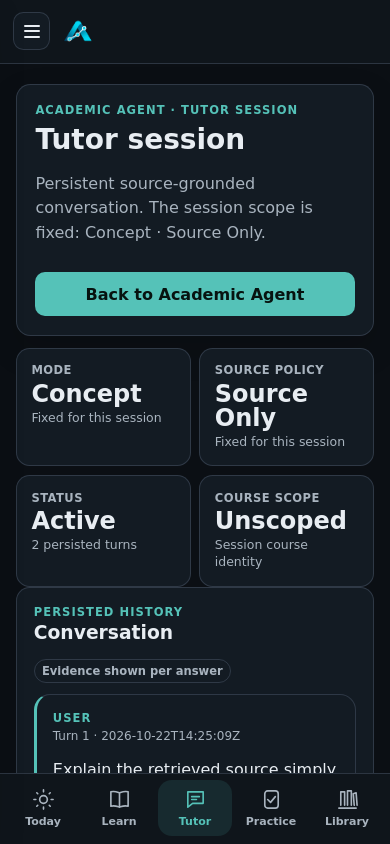
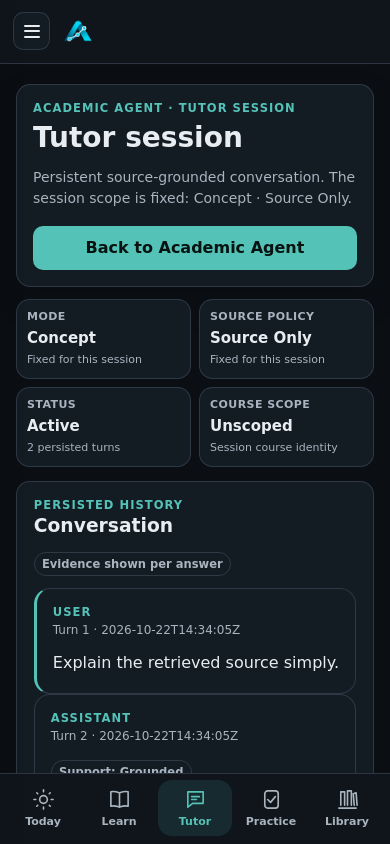
Polish mobile Tutor reading hierarchy and record verified cloud acceptance

diff --git a/personal_learning_assistant/ui/web/static/css/mobile_v1.css b/personal_learning_assistant/ui/web/static/css/mobile_v1.css
@@ -102,3 +102,12 @@ body.mobile-assessment {padding-bottom:env(safe-area-inset-bottom)}
 :root[data-theme="light"] .assessment-runner.is-time-low .exam-timer-panel strong {color:#9e2431}
 :root[data-theme="light"] body.learning-page .content .ls-workspace-primary,
 :root[data-theme="light"] body.learning-page .content .ls-workspace-primary span {background:#12675e;color:#fff}
+@media(max-width:860px) {
+ /* Keep scope legible while bringing the conversation onto the first screen. */
+ .tutor-session-page .hero {padding:16px;margin-bottom:12px;gap:10px}
+ .tutor-session-page .hero .lede {font-size:14px;line-height:1.5}
+ .tutor-session-page .metric-grid {gap:8px;margin-bottom:14px}
+ .tutor-session-page .metric-card {min-height:0;padding:10px;gap:4px}
+ .tutor-session-page .metric-card strong {font-size:15px;line-height:1.35}
+ .tutor-session-page .metric-card>span {font-size:11px;line-height:1.35}
+}

diff --git a/personal_learning_assistant/ui/web/static/js/mobile-sw.js b/personal_learning_assistant/ui/web/static/js/mobile-sw.js
@@ -1,7 +1,7 @@
 /* Reviewed app assets only. Never store academic pages, API responses or mutations. */
 'use strict';
 // Bump this version whenever a listed shell asset changes.
-const CACHE = 'anvaya-mobile-v1-2026-10-22-1';
+const CACHE = 'anvaya-mobile-v1-2026-10-22-2';
 const ASSETS = ['/mobile/offline', '/static/css/mobile_v1.css', '/static/js/mobile_v1.js',
   '/static/brand/anvaya-mobile-192.png', '/static/brand/anvaya-mobile-512.png'];
 self.addEventListener('install', event => {

diff --git a/personal_learning_assistant/ui/web/templates/agent_session.html b/personal_learning_assistant/ui/web/templates/agent_session.html
@@ -2,6 +2,8 @@
 
 {% block title %}Tutor Session · Academic Agent{% endblock %}
 
+{% block body_class %}tutor-session-page{% endblock %}
+
 {% block content %}
 <section class="hero dashboard-hero" aria-labelledby="agent-session-title">
   <div>

diff --git a/tests/test_mobile_v1_browser.py b/tests/test_mobile_v1_browser.py
@@ -148,8 +148,11 @@ def test_update_waits_without_reloading_active_page(protected_browser,mobile_liv
     from flask import Response
     a=mobile_live['app'];version={'value':'1'}
     def versioned_worker():
+        import re
         source=(Path(a.static_folder)/'js/mobile-sw.js').read_text()
-        return Response(source.replace('2026-10-22-1','2026-10-22-'+version['value']),
+        source=re.sub(r"const CACHE = '[^']+';",
+            "const CACHE = 'anvaya-mobile-update-test-"+version['value']+"';",source)
+        return Response(source,
                         mimetype='application/javascript',headers={'Cache-Control':'no-store','Service-Worker-Allowed':'/'})
     a.view_functions['mobile.worker']=versioned_worker
     with protected_browser.new_context(viewport={'width':390,'height':844}) as ctx:
@@ -206,6 +209,7 @@ def test_real_tutor_repository_conversation_resume(protected_browser,mobile_live
         page.close();page=ctx.new_page();page.goto(session_url)
         expect(page.locator('.agent-turn-assistant')).to_contain_text('retrieved source supports')
         assert provider.calls==1
+        assert page.locator('#transcript-title').bounding_box()['y']<550, 'Tutor conversation is pushed below mobile metadata'
         capture(page,'mobile-tutor-persisted-390')
 
 

diff --git a/docs/mobile/v1/VALIDATION.md b/docs/mobile/v1/VALIDATION.md
@@ -23,6 +23,8 @@ No GitHub Actions provider secrets are consumed.
 
 ## Acceptance registry
 
+Local full regression: **2,942 passed, four expected private IKS skips**. Final mobile gate: **32 passed**, JavaScript: **29 passed**. Raw logs/source hashes: [`evidence/local-results.json`](evidence/local-results.json).
+
 Final exact-head CI results live in the draft PR checks and the
 **Mobile V1 private PWA acceptance** artifacts. Pending runs are not passes.
 The initial full-suite run exposed nine failures and was not accepted; the
@@ -47,7 +49,7 @@ corrections below preserve the original responsive/academic assertions.
 | Browser outbound network | PASS: matrix blocks and records any nonlocal request; no third-party request observed |
 | PWA metadata / eligibility | PASS: Chromium CDP reports no manifest or installability errors; local 192/512 icons and standalone manifest. BLOCKED: actual Android launcher installation/splash acceptance |
 | Frontend worker / existing JS | PASS: 29 Node tests, including cache namespace, forbidden paths, offline navigation and mutation noninterception |
-| Python regression | Full suite rerun after fixes; exact results in PR/CI. Exactly four unavailable private IKS fixture tests may skip; they remain BLOCKED rather than passed |
+| Python regression | PASS: 2,942 passed, four exact private IKS skips, zero failures/errors (611.21s). Final Tutor presentation also passes all 32 mobile contracts. Raw cloud logs and source hashes are in `evidence/`; exact-head native CI remains queued. Exactly four unavailable private IKS fixture tests may skip; they remain BLOCKED rather than passed |
 | Native Ubuntu / Windows | CI workflow implemented with zero-skip focused gate; final run results and artifacts linked from PR. A queued job is BLOCKED/pending |
 | Existing installed records/backups | No real stores opened in cloud. No new migration/schema/academic owner. Existing backup-first normal startup preserved; installed-device restoration certification remains BLOCKED without that device |
 | Authenticated encrypted phone-to-host access | BLOCKED: no validated private gateway provisioned; private prototype deliberately accepts loopback peers only |

diff --git a/docs/mobile/v1/ARCHITECTURE.md b/docs/mobile/v1/ARCHITECTURE.md
@@ -96,3 +96,14 @@ hosting is created by this branch.
   passed. Final full and native gates are recorded separately in PR checks.
 - Worker refinement: non-GET requests are never intercepted; application/native
   network failure handling retains authority. Generic navigation fallback only.
+
+- Final mobile polish: compacted only Tutor metadata/hero on phones so the
+  conversation appears before 550px; original scope/details remain visible. The
+  browser assertion failed before this adjustment and passed after it. Bumped
+  generic-shell cache version to 2. All 32 mobile HTTP/Chromium tests pass after
+  this final presentation change; desktop styles and Tutor engines unchanged.
+
+- Final validation: full cloud suite 2,942 passed, exactly four unavailable
+  private IKS skips, zero failures/errors, public gate PASS. Final mobile gate
+  32 passed; JavaScript 29 passed. Raw logs/source hashes are in evidence/.
+  Native Ubuntu/Windows jobs remain queued; no native pass is inferred.
